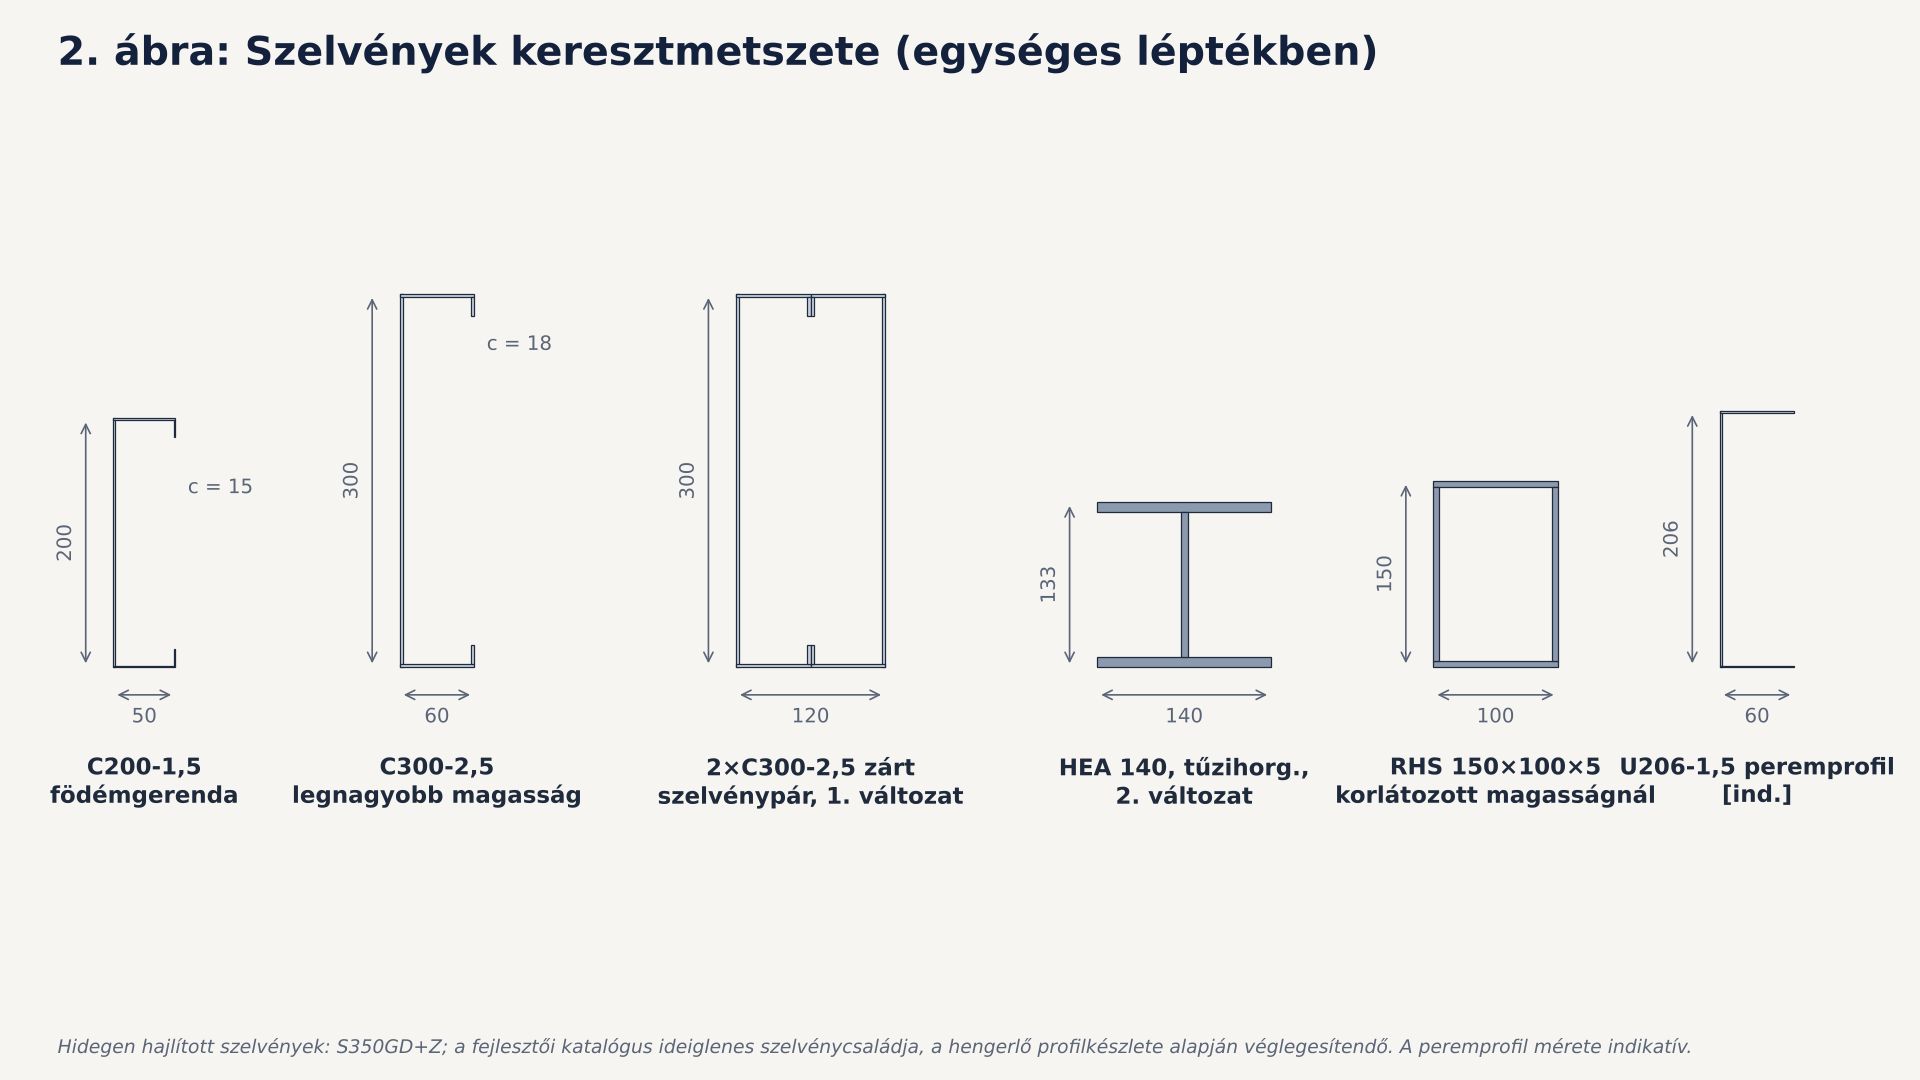
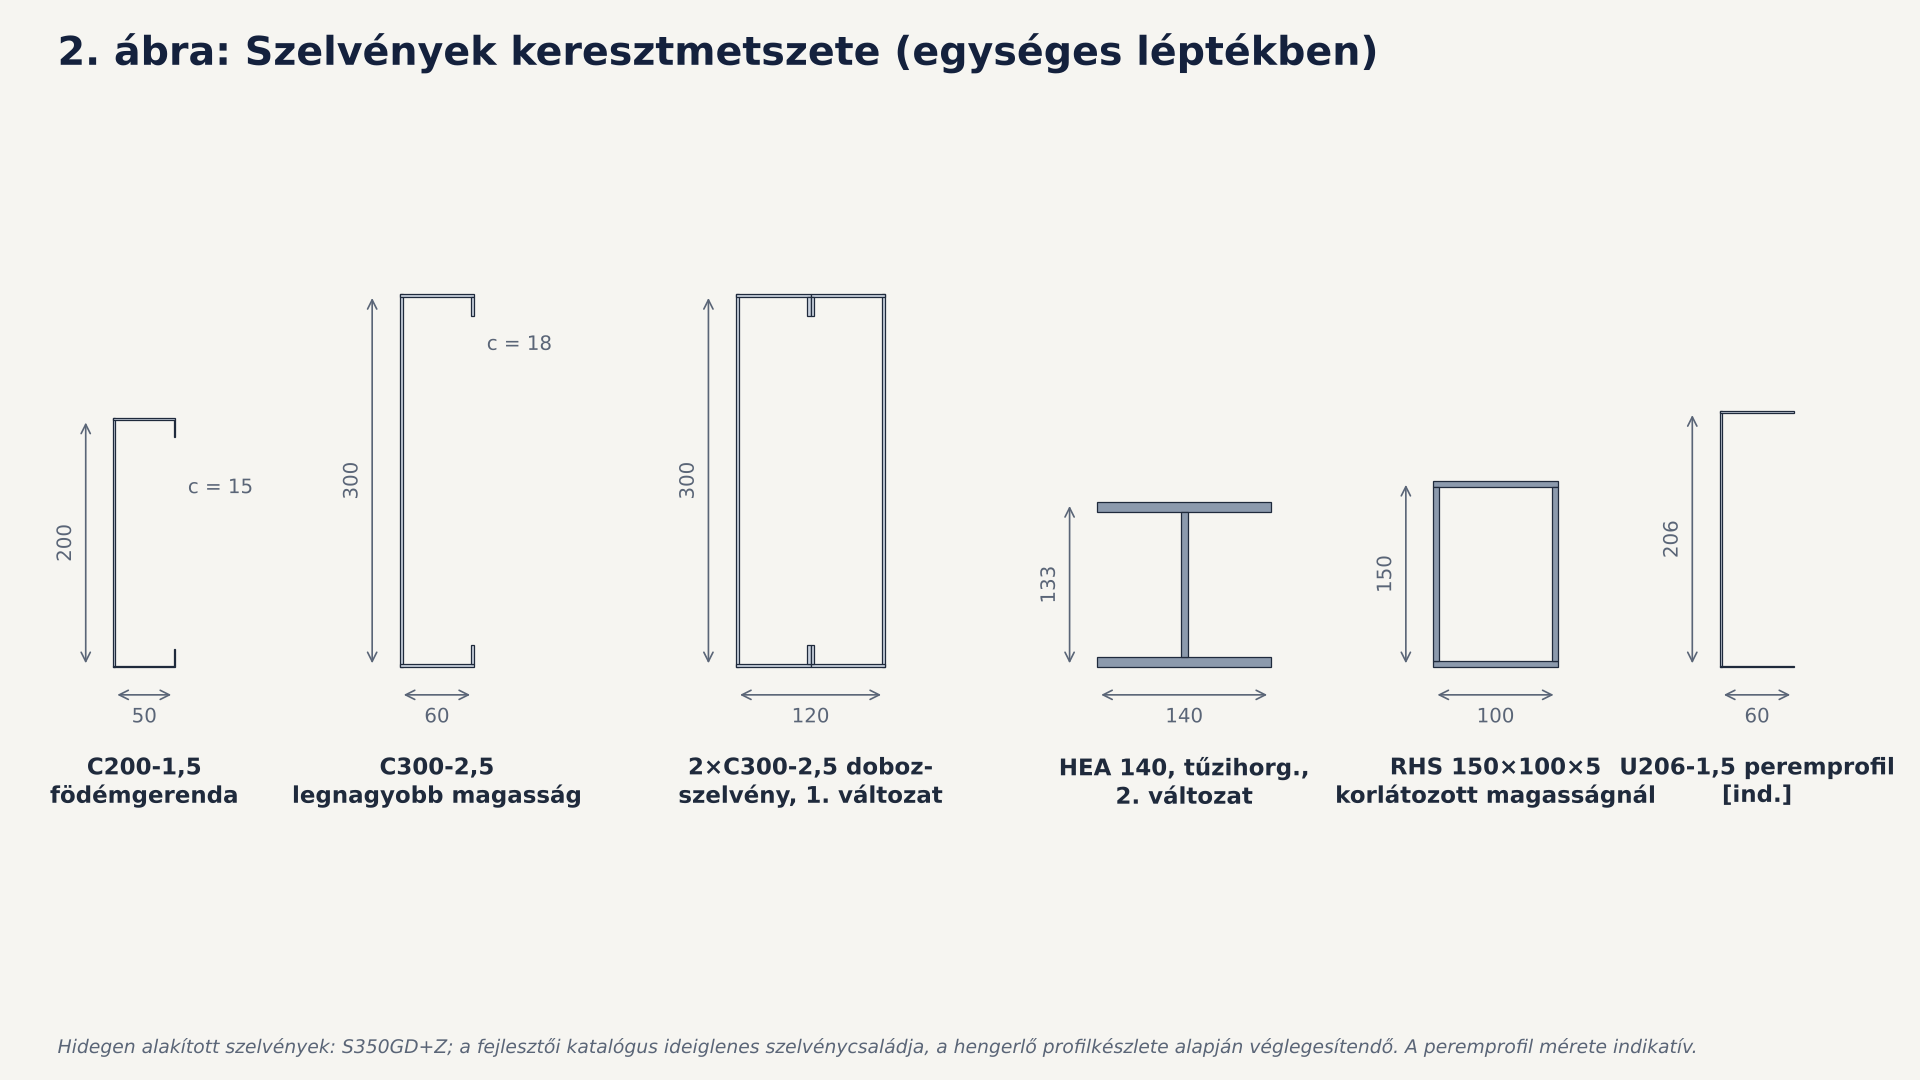
Detail figures: align terms with the EN-HU Eurocode glossary (hidegen alakított, dobozszelvény, beroppanás)
Claude-Session: https://claude.ai/code/session_019wCyknV8T4reihZGWkXEZJ

Changed region(s): [[0.0625, 0.9472, 0.875, 0.9778], [0.3438, 0.7028, 0.5, 0.7639]]

diff --git a/docs/figures_details.py b/docs/figures_details.py
@@ -229,7 +229,7 @@ def fig_system(out):
         (None, "Elemek (alulról felfelé)"),
         (1, "Csavarcölöp SP89-2500\n(szárátmérő Ø89 mm, csavarlevél Ø300 mm)"),
         (2, "Cölöpfejlemez ±25 mm-es hosszlyukakkal"),
-        (3, "Főtartó; 1. változat: 2×C300-2,5 zárt\nszelvénypár, 2. változat: HEA 140 (3. ábra)"),
+        (3, "Főtartó; 1. változat: 2×C300-2,5 doboz-\nszelvény, 2. változat: HEA 140 (3. ábra)"),
         (4, "C200-1,5 födémgerenda 600 mm-es\ntengelytávolsággal, a főtartókra felfekszik"),
         (5, "U-szelvényű peremprofil a gerendavégeken"),
         (6, "OSB födémlap a gerendák felső övén\n(részlegesen ábrázolva)"),
@@ -278,14 +278,14 @@ def fig_pile_head(out):
         (1, "Csavarcölöp, szárátmérő Ø89 mm"),
         (2, "Cölöpfejlemez, a főtartó irányában ≥150 mm,\n±25 mm-es hosszlyukakkal [ind. 200×260×12]"),
         (3, "Főtartó, legalább két cölöpön átmenő"),
-        (None, "1. változat: hidegen hajlított"),
-        (4, "Teherátadó merevítő mindkét gerinclemeznél:\nrövid C-szelvény a zárt szelvényen belül (takart)"),
+        (None, "1. változat: hidegen alakított"),
+        (4, "Teherátadó merevítő mindkét gerinclemeznél:\nrövid C-szelvény a dobozszelvényen belül (takart)"),
         (5, "Csavarok a fejlemezbe; önfúró csavarok\na szögacélon át a gerinclemezbe"),
         (6, "Rögzítő szögacél mindkét oldalon [ind. L80×80×6]"),
         (None, "2. változat: melegen hengerelt"),
         (7, "4 db csavar az alsó övön át, hosszlyukban"),
         (None, "Kísérleti vizsgálat: T5 (nyomás, kiemelés,\nnyírás, külpontosság); merevítő: T2b"),
-    ], n_axes=2, subtitles=["1. változat: 2×C300-2,5 zárt szelvénypár", "2. változat: HEA 140, tűzihorganyzott"])
+    ], n_axes=2, subtitles=["1. változat: 2×C300-2,5 dobozszelvény", "2. változat: HEA 140, tűzihorganyzott"])
     pile_head(1).draw(axes[0], ISO); pile_head(2).draw(axes[1], ISO)
     save(fig, out, "D03_colopfej.png")
 
@@ -315,12 +315,12 @@ def joist_bearer(concept):
 def fig_joist_bearer(out):
     fig, axes = frame("4. ábra: Gerenda–főtartó csomópont (B)", [
         (None, "Elemek"),
-        (1, "Főtartó (1.: 2×C300-2,5 zárt szelvénypár;\n2.: HEA 140)"),
+        (1, "Főtartó (1.: 2×C300-2,5 dobozszelvény;\n2.: HEA 140)"),
         (2, "C200-1,5 födémgerenda, a főtartóra\nfelfekszik, azon folytatólagosan átmegy"),
         (3, "Kapcsolószögacél a gerenda alsó övén,\na C-szelvény nyitott oldalán [ind. 40×64×4]"),
         (4, "Kötőelemek: önfúró csavar a gerinclemezbe;\n1.: önfúró csavar mindkét övön át,\n2.: csavar a HEA felső övén át"),
         (None, "Kísérleti vizsgálat: T4 (gerendabekötések);\na kapcsolat elcsúszása befolyásolja\na födém merevségét és rezgését"),
-    ], n_axes=2, subtitles=["1. változat: 2×C300-2,5 zárt szelvénypár", "2. változat: HEA 140"])
+    ], n_axes=2, subtitles=["1. változat: 2×C300-2,5 dobozszelvény", "2. változat: HEA 140"])
     joist_bearer(1).draw(axes[0], ISO); joist_bearer(2).draw(axes[1], ISO)
     save(fig, out, "D04_gerenda_fotarto.png")
 
@@ -348,7 +348,7 @@ def fig_joist_rim(out):
         (2, "U-szelvényű peremprofil a főtartón\n[ind. U206-1,5]"),
         (3, "C200-1,5 födémgerenda, vége\na peremprofilba illeszkedik"),
         (4, "Önfúró csavar a peremprofil övén át\na gerenda övébe"),
-        (5, "Gerinchorpadás elleni merevítő a gerendavégen\n(szükség szerint, AISI S240-15, B2.5)"),
+        (5, "Beroppanás elleni merevítő a gerendavégen\n(szükség szerint, AISI S240-15, B2.5)"),
         (6, "Kapcsolószögacél [ind. 45×70×4], csavarozva\na gerenda és a peremprofil gerinclemezéhez"),
         (None, "Vizsgált kialakítások (T4): szögacél,\nkihajtott fül, bemetszett gerendavég"),
     ])
@@ -392,7 +392,7 @@ def fig_splice(out):
         (2, "A főtartó legalább két cölöpön\nát folytatólagos"),
         (3, "Toldás a negyedpontban (L/4-re a cölöptől),\nahol a hajlítónyomaték kicsi"),
         (None, "1.: kétoldali hevederlemez önfúró\ncsavarokkal [ind.]; 2.: csavarozott\ngerinc- és övheveder [ind.]"),
-    ], n_axes=2, subtitles=["1. változat: 2×C300-2,5 zárt szelvénypár", "2. változat: HEA 140"])
+    ], n_axes=2, subtitles=["1. változat: 2×C300-2,5 dobozszelvény", "2. változat: HEA 140"])
     splice(1).draw(axes[0], (0.9, -1.4, 0.8)); splice(2).draw(axes[1], (0.9, -1.4, 0.8))
     save(fig, out, "D06_toldas.png")
 
@@ -501,7 +501,7 @@ def fig_profiles(out):
     fig = plt.figure(figsize=(W, H), dpi=DPI)
     fig.patch.set_facecolor("#F6F5F1")
     fig.text(0.03, 0.94, "2. ábra: Szelvények keresztmetszete (egységes léptékben)", fontsize=19, fontweight="bold", color=NAVY)
-    fig.text(0.03, 0.025, "Hidegen hajlított szelvények: S350GD+Z; a fejlesztői katalógus ideiglenes szelvénycsaládja, a hengerlő profilkészlete "
+    fig.text(0.03, 0.025, "Hidegen alakított szelvények: S350GD+Z; a fejlesztői katalógus ideiglenes szelvénycsaládja, a hengerlő profilkészlete "
              "alapján véglegesítendő. A peremprofil mérete indikatív.", fontsize=9, color=MUTED, style="italic")
     ax = fig.add_axes([0.02, 0.08, 0.96, 0.8]); ax.set_aspect("equal"); ax.axis("off")
 
@@ -525,7 +525,7 @@ def fig_profiles(out):
         (0, real_c(*C200), "C200-1,5\nfödémgerenda", 200, 50, COL["cfs"]),
         (230, real_c(300, 60, 18, 2.5), "C300-2,5\nlegnagyobb magasság", 300, 60, COL["cfs"]),
         (500, real_c(300, 60, 18, 2.5) + [(u0 + 120, u1 + 120, v0, v1) for u0, u1, v0, v1 in real_c(300, 60, 18, 2.5, True)],
-         "2×C300-2,5 zárt\nszelvénypár, 1. változat", 300, 120, COL["cfs"]),
+         "2×C300-2,5 doboz-\nszelvény, 1. változat", 300, 120, COL["cfs"]),
         (790, [(u0 + 70, u1 + 70, v0, v1) for u0, u1, v0, v1 in i_rects(*HEA140)], "HEA 140, tűzihorg.,\n2. változat", 133, 140, COL["hot"]),
         (1060, [(u0 + 50, u1 + 50, v0, v1) for u0, u1, v0, v1 in rhs_rects(150, 100, 5)], "RHS 150×100×5\nkorlátozott magasságnál", 150, 100, COL["hot"]),
         (1290, [(0, 1.5, 0, 206), (0, 60, 0, 1.5), (0, 60, 204.5, 206)],
